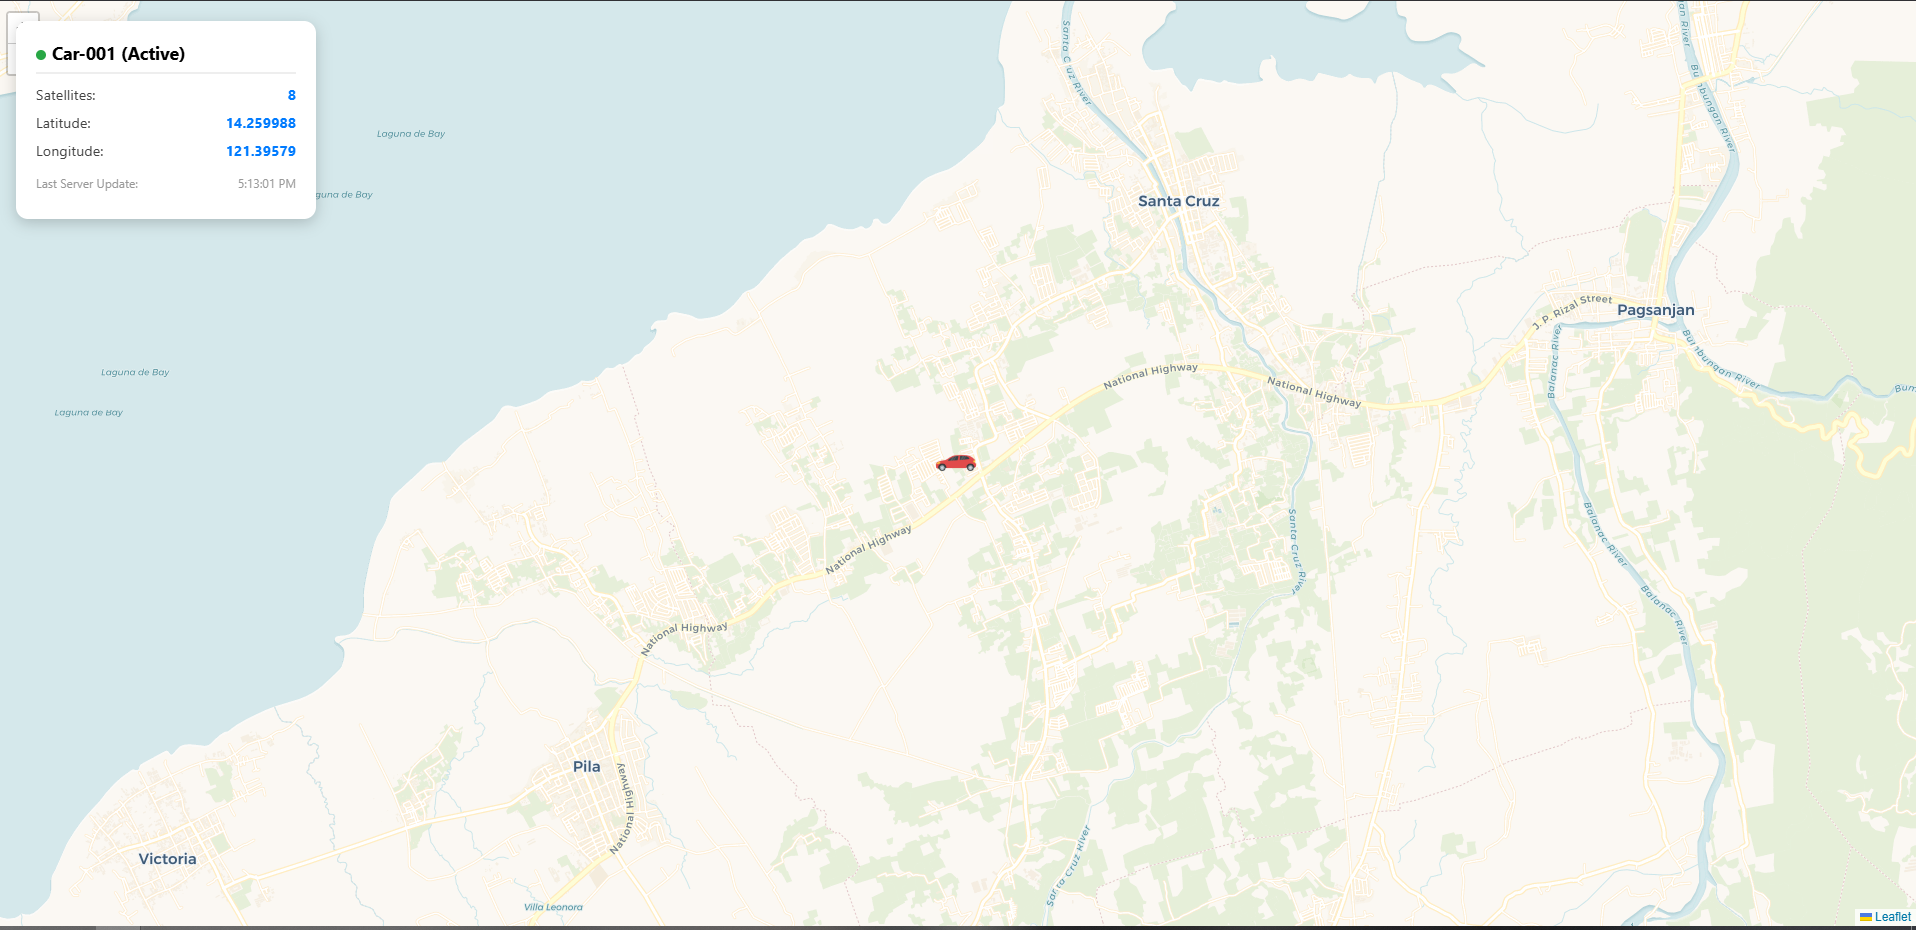
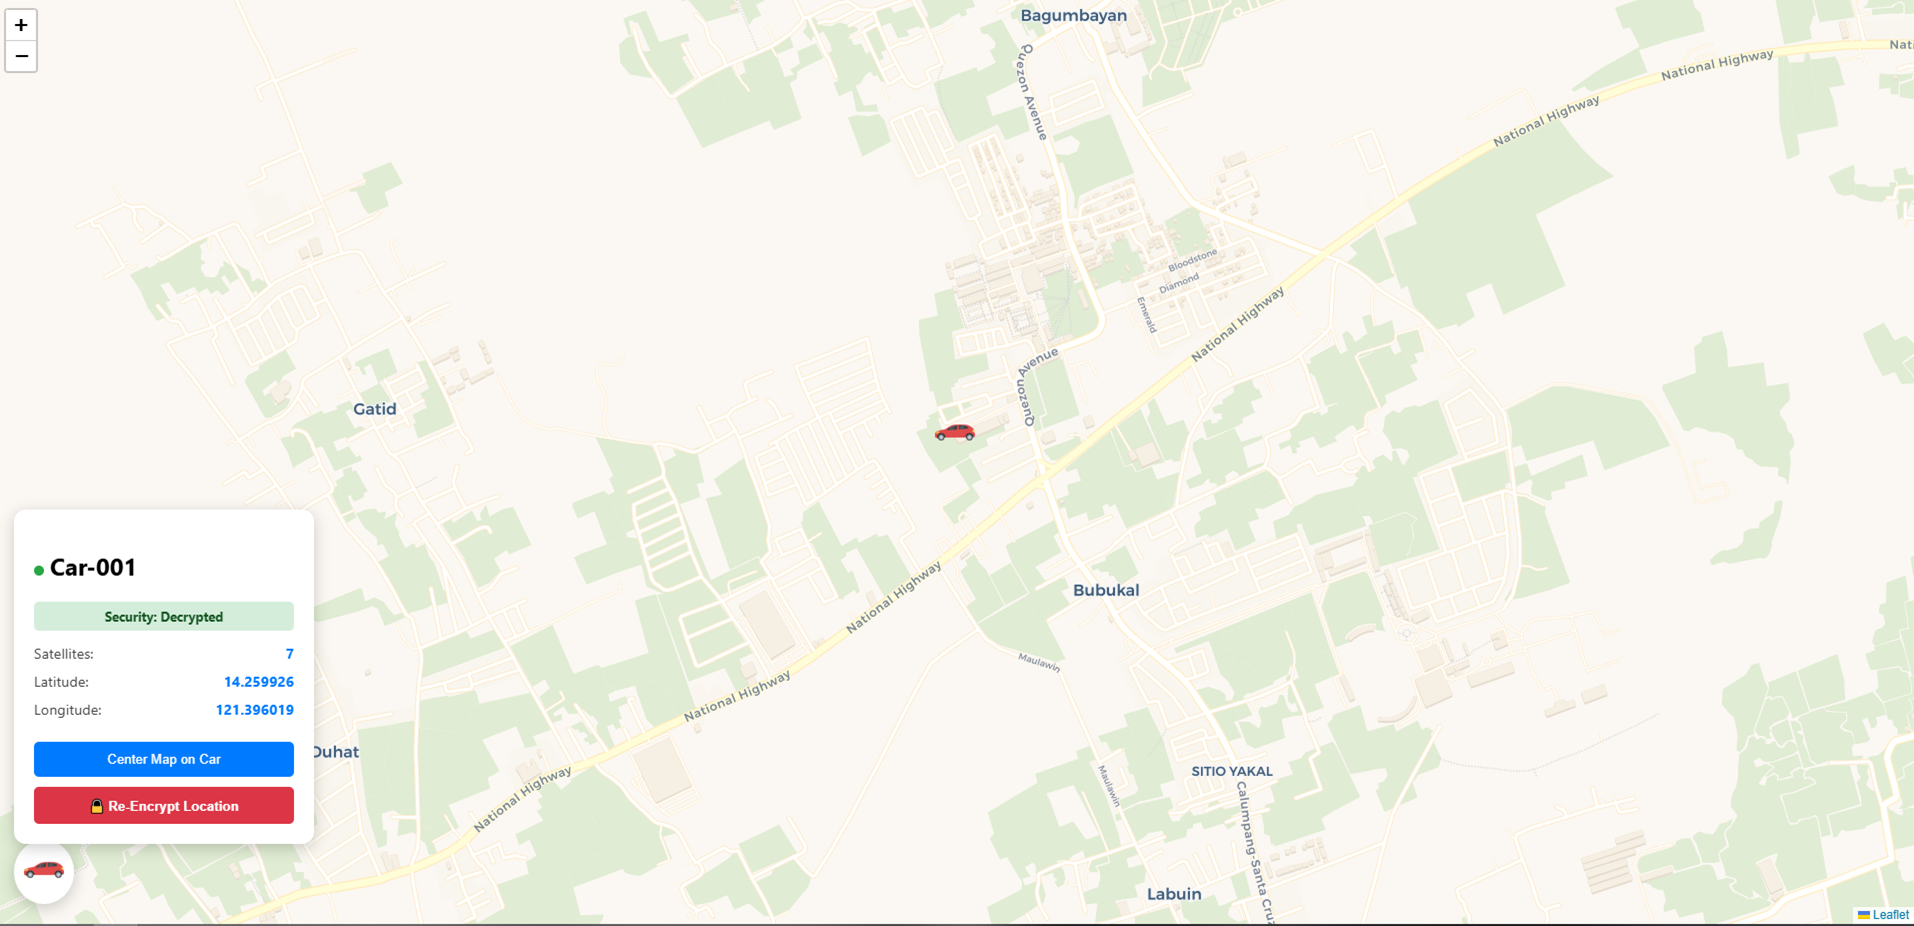
update readme

diff --git a/README.md b/README.md
@@ -1,58 +1,56 @@
+# 🚗 Car-001 Live Fleet Tracker (Secure Edition)
 
-# 🚗 Car-001 Live Fleet Tracker
-
-A real-time GPS tracking system utilizing an **ESP32** and **SIM800L** to transmit telemetric data to a web-based dashboard via the **Blynk IoT Cloud**.
+A professional-grade, privacy-conscious vehicle tracking system. This system allows the driver to toggle "Privacy Mode" physically from the car, while providing the owner with "Master Override" capabilities via a secure web dashboard.
 
 ![](image/image001.png) 
 
+---
+
 ## 📝 Description
-This project provides a low-latency solution for vehicle monitoring. By leveraging cellular data, the system transmits coordinates, satellite strength, and a heartbeat signal to the cloud. The frontend dashboard then visualizes the car's movement on an interactive map and provides a "Watchdog" status monitoring system to notify users if the device goes offline.
+This project provides a real-time, high-security vehicle monitoring solution. It features a unique **"Default Secure"** architecture: tracking data is encrypted by default on the web dashboard to protect driver privacy. Authorized users can decrypt the location on-demand via a Master Override, and drivers can toggle visibility instantly using a hardware privacy button inside the vehicle.
 
-## ✨ Features
-* **Real-time Mapping:** Uses Leaflet.js and OpenStreetMap (Voyager tiles) for smooth vehicle tracking.
-* **Watchdog Formula:** Automatically detects "Offline" status if no data is received within **90 seconds**.
-* **Time Freeze Logic:** The "Last Updated" timestamp freezes when the device is offline, showing exactly when the signal was lost.
-* **Batched Data:** Efficient API calls to Blynk handle Latitude, Longitude, and Satellites in a single transmission.
-* **Responsive Dashboard:** Floating telemetry panel providing live GPS stats.
+## ✨ Key Security Features
+* **Default Secure:** All location data is encrypted (`*** ENCRYPTED ***`) on the dashboard by default.
+* **Hardware Privacy Toggle:** A physical button allows the driver to toggle Privacy Mode on/off, providing instant, tactile control.
+* **Master Override:** Owners can reveal the location of an "Encrypted" vehicle by clicking the **"🔓 Decrypt Car Location"** button on the dashboard.
+* **Automatic Vanish:** To prevent stale data, the system automatically removes the car marker from the map if it goes offline for more than 20 seconds.
+* **Non-Blocking Logic:** The hardware handles privacy transitions instantly without needing system reboots, ensuring continuous connectivity.
 
-## ⚙ How the System Works
-1.  **Data Acquisition:** The ESP32 collects NMEA sentences from the GPS module.
-2.  **Transmission:** The SIM800L sends a batched HTTP GET request to the Blynk `sgp1` server.
-3.  **Cloud Storage:** Blynk stores the values in Virtual Pins (V1-V4).
-4.  **Frontend Retrieval:** The HTML dashboard fetches this data every 5 seconds.
-5.  **Validation:** The dashboard calculates the difference between the **current time** and the **server's `updatedAt` timestamp** to determine the connection status.
+## ⚙ Updated Architecture
+1. **Data Acquisition:** ESP32 collects GPS data and monitors the Privacy Button state.
+2. **Transmission:** Data is batched and sent to the Blynk Cloud.
+3. **Encryption Gatekeeper:** The dashboard fetches telemetry and applies security layers:
+    - If `Privacy Mode == ON` AND `Override == OFF`: Marker hidden, data encrypted.
+    - If `Privacy Mode == OFF` OR `Override == ON`: Marker visible, data decrypted.
+4. **Offline Watchdog:** The dashboard calculates a 20-second heartbeat window to determine device connectivity.
 
-## 📜 Changelog
-### v1.2.0 (Latest)
-* **Fixed:** Browser refresh bug where the status would reset to "Active" regardless of actual server data.
-* **Added:** V4 Heartbeat pin for more reliable connectivity monitoring.
-* **Improved:** UI layout with "Voyager" map tiles for better readability.
-### v1.1.0
-* Implemented `parseFloat` validation to prevent "NaN" errors on the dashboard.
-### v1.0.0
-* Initial release with basic V1/V2/V3 tracking.
+## 🚀 Recent Changelog
+### v2.0.0 (Privacy-Focused Update)
+* **Added:** Hardware Privacy Mode button with OLED feedback.
+* **Added:** "Default Secure" encryption layer on the web dashboard.
+* **Added:** Master Override feature for authorized fleet owners.
+* **Improved:** Offline detection reduced from 90s to 20s for tighter security.
+* **Fixed:** Resolved "static snow" on OLED during startup with a 1000ms delay.
+* **Improved:** Modular codebase (split into `index.html`, `style.css`, and `script.js`).
 
-## 🛠 Technologies Used
-* **Hardware:** ESP32, SIM800L GSM Module, GPS Module.
-* **Cloud/Backend:** Blynk IoT Platform (REST API).
-* **Frontend:** HTML5, CSS3, JavaScript (ES6+).
-* **Mapping:** Leaflet.js.
+## 🛠 Updated Technologies
+* **Hardware:** ESP32, SIM800L/Air780E, GPS, SSD1306 OLED, Toggle Button.
+* **Frontend:** HTML5, CSS3, JavaScript (Leaflet.js for Mapping).
+* **Backend:** Blynk IoT REST API (Secure Batch Updates).
 
 ## 🚀 Getting Started
-1.  **Blynk Setup:** Create four datastreams (V1: Lat, V2: Lng, V3: Sats, V4: Heartbeat).
-2.  **ESP32 Config:** Upload the `.ino` sketch with your `Template ID` and `Auth Token`.
-3.  **Dashboard:** Open `index.html` and replace the `blynkToken` variable with your own.
-
-## 🌐 Deployment
-The dashboard is designed for easy deployment on **Vercel** or **GitHub Pages**. Simply push the `index.html` file to your repository and connect it to your hosting provider.
+1. **Blynk:** Ensure V1-V4 are set up, and your dashboard logic handles the encryption flow.
+2. **Wiring:** Ensure the Privacy Button is connected to GPIO 4 (Input Pullup).
+3. **Setup:** Open `script.js` and set your `blynkToken` and `blynkServer`.
+4. **Deploy:** Upload the `.ino` sketch to your ESP32.
 
 ## ⏩ Future Enhancements
-* **Geofencing:** SMS alerts if the car leaves a specific area (Laguna area).
-* **Historical Breadcrumbs:** Visualizing the path taken over the last 24 hours.
-* **Power Management:** Deep sleep modes for the ESP32 to save vehicle battery when the ignition is off.
+* **Trip History:** Storing historical coordinate arrays for automated route playback.
+* **Geofencing:** Automated alerts if the vehicle leaves the Santa Cruz/Laguna operating zone.
+* **Battery Monitoring:** Voltage telemetry to warn the owner if the car battery is draining while parked.
 
 ## 🤝 Acknowledgements
-* **Leaflet.js** for the incredible mapping library.
+* **Leaflet.js** for the mapping library.
 * **Blynk IoT** for the seamless cloud integration.
 * **CARTO** for the map tile styles.
 
